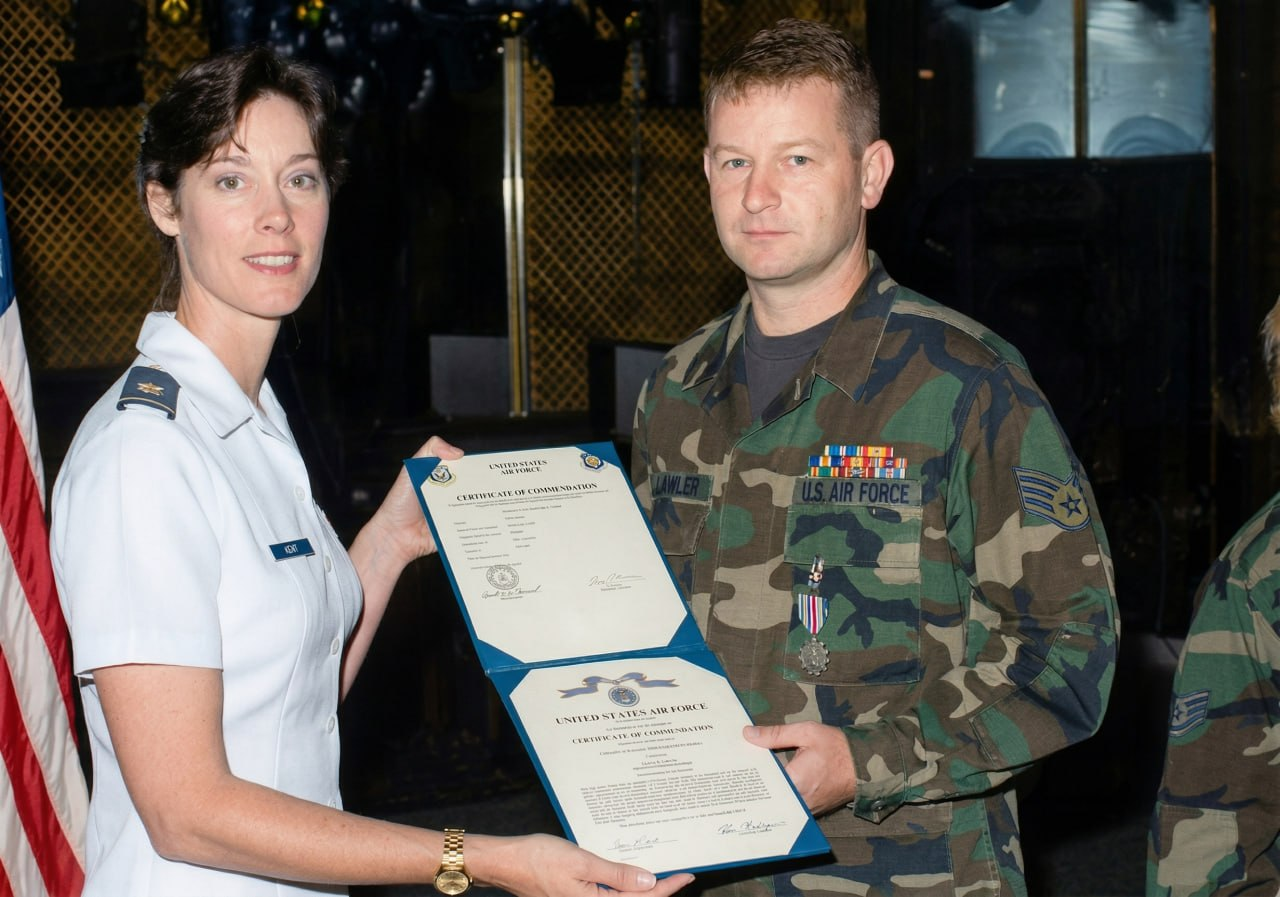
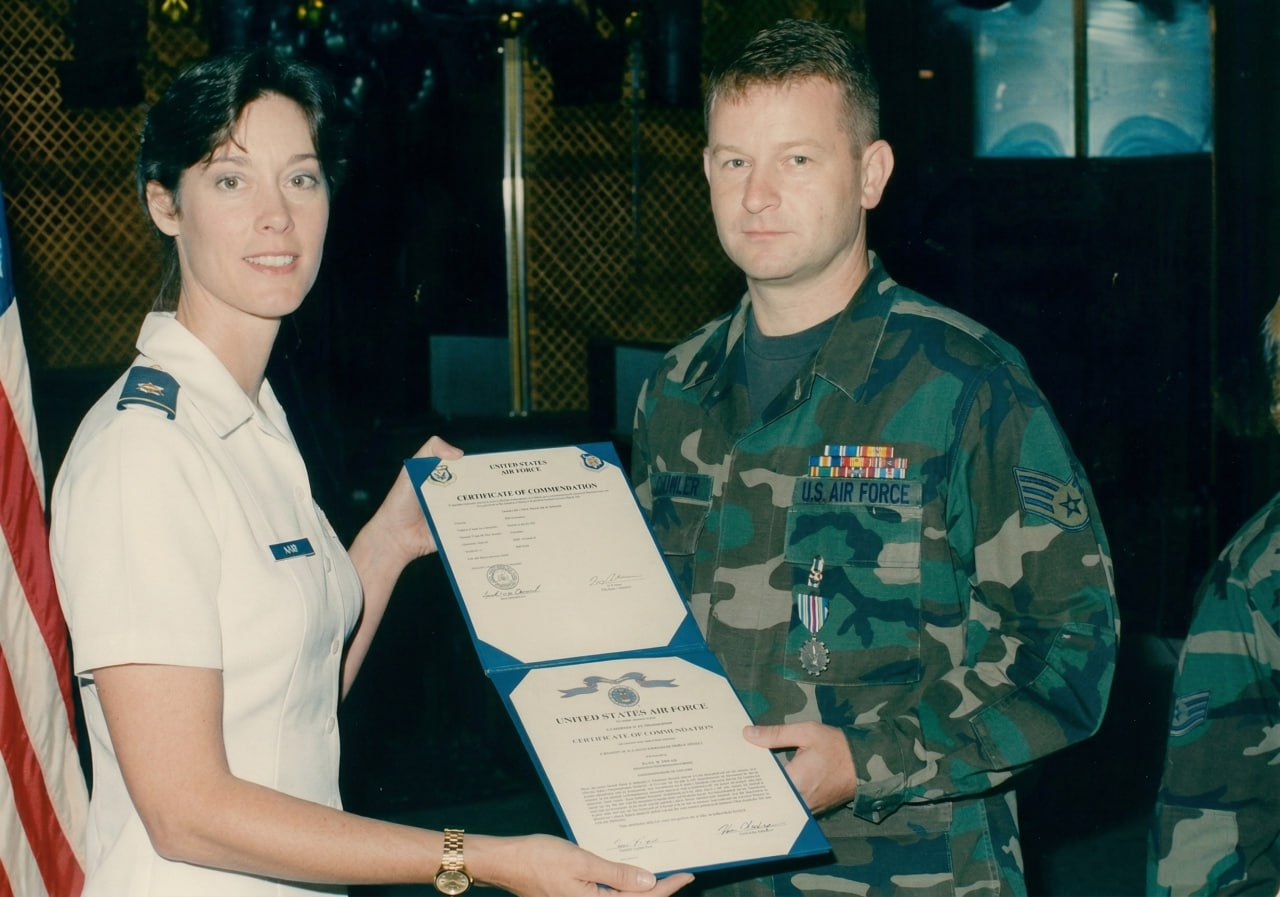
fix: replace B&W air force photo with color version, use same CSS pattern as working photos

diff --git a/src/components/sections/beyond-section.tsx b/src/components/sections/beyond-section.tsx
@@ -1,6 +1,6 @@
 "use client";
 
-import { useEffect, useRef, useState } from "react";
+import { useEffect, useRef } from "react";
 import { gsap } from "../gsap-provider";
 
 interface BeyondSection {
@@ -284,17 +284,12 @@ export function BeyondSection({ focus }: { focus?: string }) {
                 </h3>
                 
                 <div className="clearfix">
-                  <div 
-                    className="photo-container float-right w-48 h-48 ml-8 mb-6 rounded-xl overflow-hidden relative cursor-pointer"
-                    onMouseEnter={(e) => { const img = e.currentTarget.querySelector('img'); if (img) img.style.filter = 'grayscale(0)'; }}
-                    onMouseLeave={(e) => { const img = e.currentTarget.querySelector('img'); if (img) img.style.filter = 'grayscale(1)'; }}
-                  >
+                  <div className="photo-container group float-right w-48 h-48 ml-8 mb-6 rounded-xl overflow-hidden relative cursor-pointer border border-primary/20">
                     {sections[1].image ? (
                       <img 
                         src={sections[1].image} 
                         alt={sections[1].title}
-                        className="parallax-photo absolute inset-0 w-full h-full object-cover transition-all duration-700"
-                        style={{ filter: 'grayscale(1)' }}
+                        className="parallax-photo w-full h-full object-cover grayscale transition-all duration-700 group-hover:grayscale-0"
                       />
                     ) : (
                       <div className="absolute inset-0 bg-[#1a1a1a] flex items-center justify-center text-center p-4">
